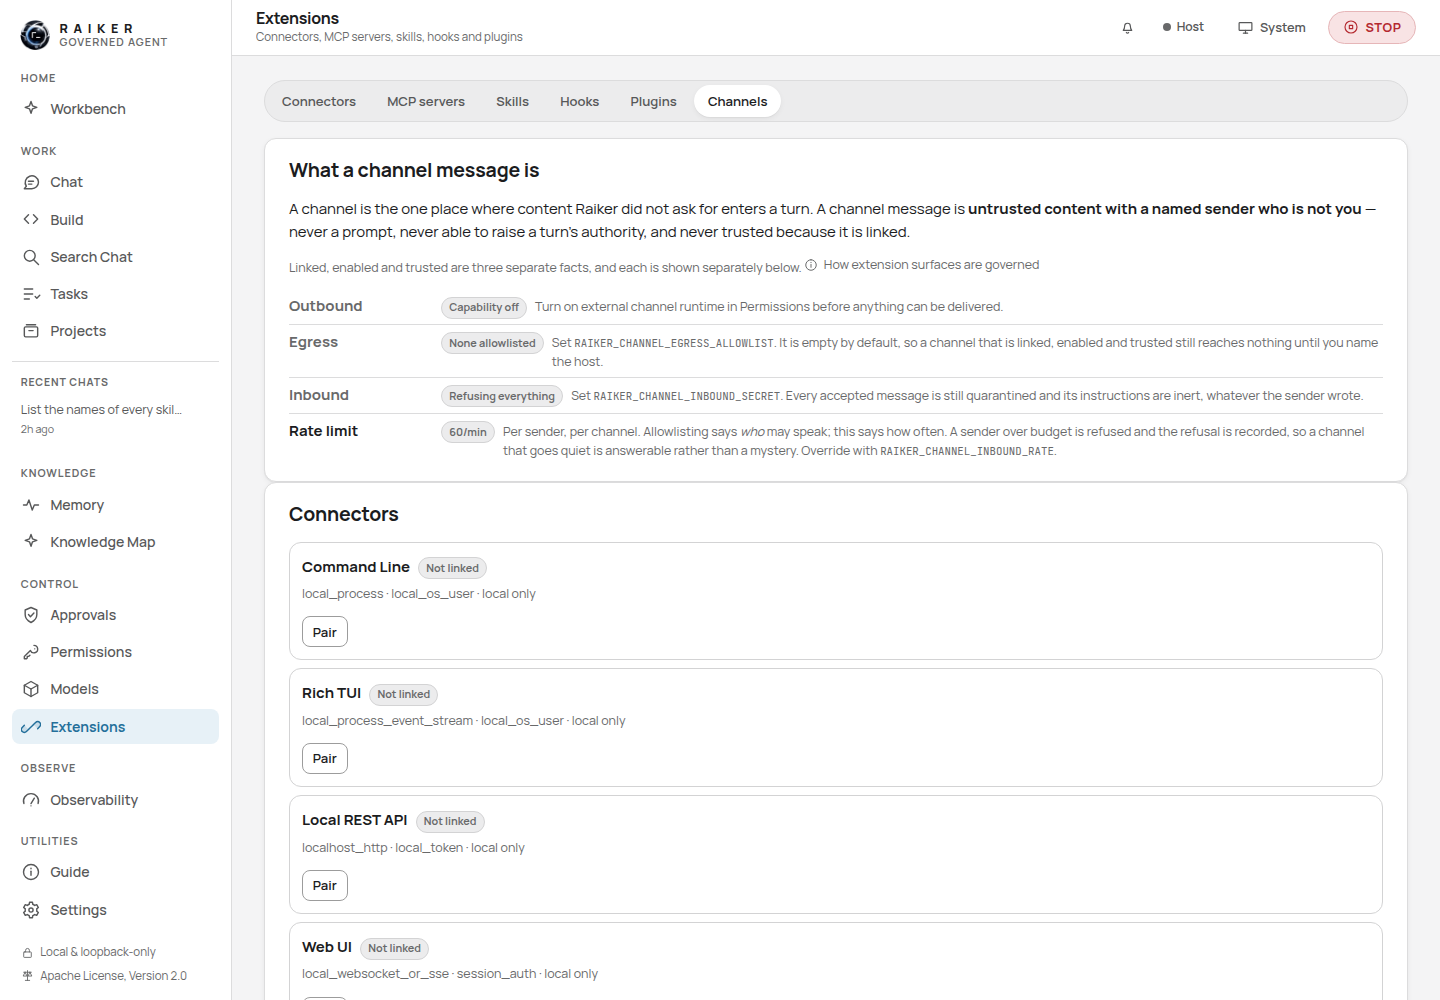
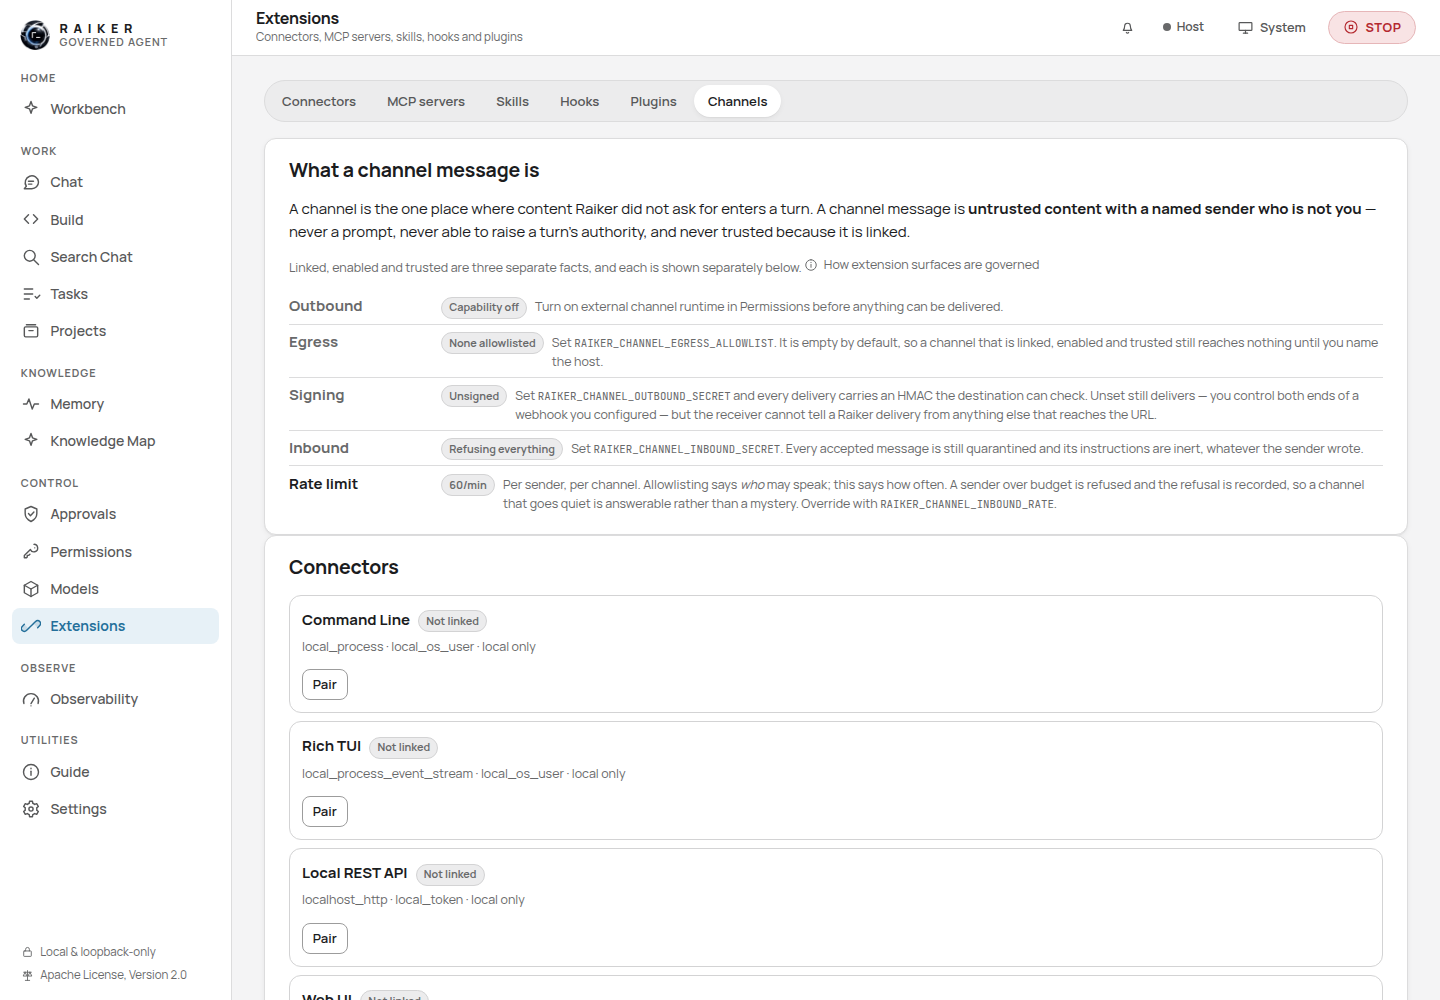
fix: sign the deliveries a "signed HTTP callback" was sending unsigned
The webhook connector profile declares transport `signed_http_callback` and
auth `signed_message_reference`. The executor POSTed a bare JSON body. A
receiver had no way to tell a Raiker delivery from anything else that could
reach the URL, so both fields were documentation rather than facts about the
bytes on the wire — the registry validated that they were present, never that
they were true.

Deliveries now carry X-Raiker-Signature (HMAC-SHA256 over the exact bytes,
keyed by RAIKER_CHANNEL_OUTBOUND_SECRET) and X-Raiker-Delivered-At. The body
is serialised with sorted keys and carries the timestamp too, so a receiver
can recompute the signature without knowing Raiker's serialisation and can
reject a replay on its own terms. The secret is read at delivery and never
stored, logged or returned.

Unset means unsigned, not refused: the owner controls both ends of a webhook
they configured, and hard-blocking their own destination is
prevention-by-restriction. So the state is reported instead — in the delivery
summary, in its artifacts, and as a Signing row on the tab beside the other
four conditions.

Claude-Session: https://claude.ai/code/session_01Hp8EpmNDdXLE3aU94XXCnu

diff --git a/apps/web/src/lib/views/ExtensionsView.svelte b/apps/web/src/lib/views/ExtensionsView.svelte
@@ -819,7 +819,9 @@
         prompt, never able to raise a turn's authority, and never trusted because it is linked.
       </p>
       <p class="note">
-        Linked, enabled and trusted are three separate facts, and each is shown separately below.
+        Nothing here is implicit. Linked is not enabled, enabled is not trusted, and a channel that
+        is all three still reaches nothing until you name the host — so every condition is its own
+        row, with its own remedy.
         <GuideLink route="extensions" label="How extension surfaces are governed" />
       </p>
       {#if channels !== null}
@@ -845,6 +847,18 @@
             <span class="note">
               Set <code>RAIKER_CHANNEL_EGRESS_ALLOWLIST</code>. It is empty by default, so a channel
               that is linked, enabled and trusted still reaches nothing until you name the host.
+            </span>
+          </li>
+          <li class:event-dead={!channels.outbound.signing_configured}>
+            <strong>Signing</strong>
+            <span class="hook-tag" class:hook-tag-dead={!channels.outbound.signing_configured}>
+              {channels.outbound.signing_configured ? "Signed" : "Unsigned"}
+            </span>
+            <span class="note">
+              Set <code>RAIKER_CHANNEL_OUTBOUND_SECRET</code> and every delivery carries an
+              HMAC the destination can check. Unset still delivers — you control both ends of a
+              webhook you configured — but the receiver cannot tell a Raiker delivery from
+              anything else that reaches the URL.
             </span>
           </li>
           <li class:event-dead={!channels.inbound.secret_configured}>

diff --git a/apps/web/src/lib/views/ExtensionsView.test.ts b/apps/web/src/lib/views/ExtensionsView.test.ts
@@ -380,6 +380,7 @@ describe("ExtensionsView", () => {
       runtime_enabled: false,
       egress_configured: false,
       egress_host_count: 0,
+      signing_configured: false,
     },
     inbound: {
       secret_configured: false,
@@ -416,6 +417,9 @@ describe("ExtensionsView", () => {
     // Allowlisting says *who* may speak; the budget says how often. An
     // allowlisted sender was unbounded until this row existed.
     expect(within(posture).getByText("Rate limit").closest("li")).toHaveTextContent("60/min");
+    // The webhook profile declares a *signed* callback. Whether a delivery is
+    // actually signed is a fact about the bytes, not about the profile.
+    expect(within(posture).getByText("Signing").closest("li")).toHaveTextContent("Unsigned");
   });
 
   it("offers pairing, and says pairing is not switching on", async () => {

diff --git a/apps/web/e2e/bug-225-channels-live.spec.ts b/apps/web/e2e/bug-225-channels-live.spec.ts
@@ -71,7 +71,7 @@ test("the tab states what a channel message is (BUG-225)", async ({ page }) => {
   // The three gates, each its own row: one is a capability the owner sets, one
   // is an environment allowlist, one is an inbound secret. Different remedies.
   const posture = page.getByTestId("channel-posture");
-  for (const fact of ["Outbound", "Egress", "Inbound", "Rate limit"]) {
+  for (const fact of ["Outbound", "Egress", "Signing", "Inbound", "Rate limit"]) {
     await expect(posture.getByText(fact, { exact: true })).toBeVisible();
   }
 

diff --git a/apps/web/src/lib/apiTypes.ts b/apps/web/src/lib/apiTypes.ts
@@ -400,6 +400,8 @@ export interface ChannelsView {
     /** RAIKER_CHANNEL_EGRESS_ALLOWLIST names at least one host. Fail-closed. */
     egress_configured?: boolean;
     egress_host_count?: number;
+    /** RAIKER_CHANNEL_OUTBOUND_SECRET is set, so deliveries carry an HMAC. */
+    signing_configured?: boolean;
   };
   inbound: {
     /** RAIKER_CHANNEL_INBOUND_SECRET is set. Without it the receiver refuses. */

diff --git a/raiker/runtime/executors/channels.py b/raiker/runtime/executors/channels.py
@@ -1,6 +1,9 @@
 from __future__ import annotations
 
+import hashlib
+import hmac
 import json
+import os
 from pathlib import Path
 from typing import TYPE_CHECKING
 
@@ -20,6 +23,31 @@ if TYPE_CHECKING:
 # an approval). Inbound traffic is handled separately and always labelled
 # untrusted (see raiker/api/routes_channels.py). This is the one reference
 # transport for Phase 4 slice 4; other transports remain gated/fail-closed.
+
+
+def _sign_delivery(body: bytes) -> tuple[str, bool]:
+    """``(signature, signed)`` for one outbound body.
+
+    The webhook connector profile declares transport ``signed_http_callback`` and
+    auth ``signed_message_reference``. Until this existed, the executor POSTed an
+    unsigned body — so a receiver had no way to tell a Raiker delivery from
+    anything else that could reach the URL, and the profile's declaration was
+    documentation rather than a fact.
+
+    HMAC-SHA256 over the exact bytes sent, keyed by ``RAIKER_CHANNEL_OUTBOUND_SECRET``.
+    The secret is read at delivery and never stored, logged or returned.
+
+    **Unset means unsigned, not refused**, and that is deliberate: the owner
+    controls both ends of a webhook they configured, and hard-blocking their own
+    destination is prevention-by-restriction. The delivery says so in its summary
+    and its artifacts, so an unsigned delivery is a visible state rather than a
+    silent one, and a receiver that requires a signature simply rejects it.
+    """
+    secret = os.environ.get("RAIKER_CHANNEL_OUTBOUND_SECRET", "").strip()
+    if not secret:
+        return "", False
+    digest = hmac.new(secret.encode("utf-8"), body, hashlib.sha256).hexdigest()
+    return f"sha256={digest}", True
 
 
 def _enabled_pairing(store: SQLiteStore, connector_id: str) -> dict | None:
@@ -55,9 +83,25 @@ class ExternalChannelExecutor:
                 reason_code="channel_not_paired_or_disabled",
                 summary="Channel delivery denied: connector is not paired/enabled.",
             )
-        body = json.dumps({"text": text, "connector_id": connector_id}).encode("utf-8")
+        delivered_at = utc_now()
+        body = json.dumps(
+            {
+                "text": text,
+                "connector_id": connector_id,
+                "delivered_at": delivered_at,
+            },
+            sort_keys=True,
+        ).encode("utf-8")
+        signature, signed = _sign_delivery(body)
+        headers = (
+            {"X-Raiker-Signature": signature, "X-Raiker-Delivered-At": delivered_at}
+            if signed
+            else {"X-Raiker-Delivered-At": delivered_at}
+        )
         try:
-            result = post_url(url, body, egress_allowlist=channel_egress_allowlist())
+            result = post_url(
+                url, body, egress_allowlist=channel_egress_allowlist(), headers=headers
+            )
         except SandboxError as exc:
             return ExecutionResult(
                 ok=False, capability=self.capability, action_id=action.action_id,
@@ -66,9 +110,18 @@ class ExternalChannelExecutor:
             )
         return ExecutionResult(
             ok=True, capability=self.capability, action_id=action.action_id,
-            summary=f"Delivered to '{connector_id}' ({result['sent_bytes']}b).",
-            # Metadata only — never the message text or the target URL.
-            artifacts={"connector_id": connector_id, "sent_bytes": result["sent_bytes"], "status": result["status"]},
+            summary=(
+                f"Delivered to '{connector_id}' ({result['sent_bytes']}b)"
+                + (", signed." if signed else ", UNSIGNED — set RAIKER_CHANNEL_OUTBOUND_SECRET.")
+            ),
+            # Metadata only — never the message text, the target URL, or the
+            # signature itself.
+            artifacts={
+                "connector_id": connector_id,
+                "sent_bytes": result["sent_bytes"],
+                "status": result["status"],
+                "signed": signed,
+            },
         )
 
 

diff --git a/tests/test_channel_owner_surface.py b/tests/test_channel_owner_surface.py
@@ -433,3 +433,63 @@ def test_the_surface_states_the_budget(workspace: Path, owner: str, monkeypatch:
     view = DashboardService(workspace).list_channels(owner)
 
     assert view["inbound"]["rate_limit_per_minute"] == 12
+
+
+# ── Outbound signing: the profile's declaration becomes a fact ───────────────
+
+
+def test_a_delivery_is_signed_when_the_owner_configured_a_secret(
+    workspace: Path, monkeypatch: pytest.MonkeyPatch
+) -> None:
+    """The webhook profile declares `signed_http_callback`. It POSTed unsigned.
+
+    A receiver had no way to tell a Raiker delivery from anything else that could
+    reach the URL, so the profile's transport was documentation rather than a
+    fact about the bytes on the wire.
+    """
+    import hashlib
+    import hmac
+    import json as _json
+
+    from raiker.runtime.executors import channels as channel_executors
+
+    monkeypatch.setenv("RAIKER_CHANNEL_OUTBOUND_SECRET", "shared-with-the-receiver")
+    body = _json.dumps({"text": "hi"}, sort_keys=True).encode("utf-8")
+
+    signature, signed = channel_executors._sign_delivery(body)
+
+    assert signed is True
+    expected = hmac.new(b"shared-with-the-receiver", body, hashlib.sha256).hexdigest()
+    # Over the exact bytes sent, so a receiver can recompute it without knowing
+    # how Raiker happened to serialise the payload.
+    assert signature == f"sha256={expected}"
+
+
+def test_no_secret_means_unsigned_rather_than_refused(
+    workspace: Path, monkeypatch: pytest.MonkeyPatch
+) -> None:
+    from raiker.runtime.executors import channels as channel_executors
+
+    monkeypatch.delenv("RAIKER_CHANNEL_OUTBOUND_SECRET", raising=False)
+
+    signature, signed = channel_executors._sign_delivery(b"{}")
+
+    # Deliberate: the owner controls both ends of a webhook they configured, and
+    # hard-blocking their own destination is prevention-by-restriction. The state
+    # is reported instead — visible, not silent.
+    assert signed is False
+    assert signature == ""
+
+
+def test_the_surface_says_whether_deliveries_are_signed(
+    workspace: Path, owner: str, monkeypatch: pytest.MonkeyPatch
+) -> None:
+    monkeypatch.delenv("RAIKER_CHANNEL_OUTBOUND_SECRET", raising=False)
+    assert DashboardService(workspace).list_channels(owner)["outbound"][
+        "signing_configured"
+    ] is False
+
+    monkeypatch.setenv("RAIKER_CHANNEL_OUTBOUND_SECRET", "k")
+    assert DashboardService(workspace).list_channels(owner)["outbound"][
+        "signing_configured"
+    ] is True

diff --git a/raiker/runtime/executors/sandbox.py b/raiker/runtime/executors/sandbox.py
@@ -243,13 +243,16 @@ def post_url(
     *,
     egress_allowlist: frozenset[str] | None = None,
     content_type: str = "application/json",
+    headers: dict[str, str] | None = None,
     max_bytes: int = 64_000,
     timeout: float = 10.0,
 ) -> dict:
     """POST ``payload`` to ``url`` only if its host matches ``egress_allowlist``.
 
     An empty/absent allowlist denies all egress (fail closed). Returns
-    response-size metadata only — never the response body.
+    response-size metadata only — never the response body. ``headers`` are sent
+    verbatim and never returned or logged, so a signature or an owner token can
+    be attached without either leaking into the result.
     """
     from urllib.parse import urlparse
     parsed = urlparse(url)
@@ -260,8 +263,9 @@ def post_url(
     if not any(fnmatch.fnmatch(parsed.netloc, pattern) for pattern in egress_allowlist):
         raise SandboxError(f"egress_denied:{parsed.netloc}")
     import urllib.request
+    merged = {"Content-Type": content_type, **(headers or {})}
     request = urllib.request.Request(  # noqa: S310 - scheme checked above
-        url, data=payload, method="POST", headers={"Content-Type": content_type},
+        url, data=payload, method="POST", headers=merged,
     )
     try:
         with urllib.request.urlopen(request, timeout=timeout) as resp:  # noqa: S310

diff --git a/raiker/control/dashboard.py b/raiker/control/dashboard.py
@@ -3354,6 +3354,14 @@ class DashboardService:
                 "runtime_enabled": bool(gate.runtime_enabled) if gate is not None else False,
                 "egress_configured": bool(allowlist),
                 "egress_host_count": len(allowlist),
+                # The webhook profile declares `signed_http_callback`. Without a
+                # secret the executor still delivers — the owner controls both
+                # ends of a webhook they configured — but the receiver cannot
+                # tell a Raiker delivery from anything else that reaches the URL,
+                # so the state is reported rather than assumed.
+                "signing_configured": bool(
+                    os.environ.get("RAIKER_CHANNEL_OUTBOUND_SECRET", "").strip()
+                ),
             },
             "inbound": {
                 "secret_configured": bool(

diff --git a/docs/plans/FIXED_ITEMS.md b/docs/plans/FIXED_ITEMS.md
@@ -10889,3 +10889,55 @@ slightly beyond: a 429 with no audit trail leaves the owner unable to distinguis
 **Evidence.** `tests/test_channel_owner_surface.py` — the fourth of four is
 refused, the refusal is recorded, one sender's budget is not another's, a
 nonsense override falls back, and the surface states the limit.
+
+---
+
+## FIXED-268 — A "signed HTTP callback" was posting an unsigned body
+
+**Severity: Medium. Area: channels / outbound integrity. Fixed 2026-08-22.**
+
+The webhook connector profile declares transport `signed_http_callback` and auth
+`signed_message_reference`. `ExternalChannelExecutor` POSTed a bare JSON body with
+no signature and no headers beyond `Content-Type`. A receiver had no way to tell a
+Raiker delivery from anything else that could reach the URL — so the profile's two
+most load-bearing fields were documentation, not facts about the bytes on the
+wire. `ConnectorRegistry` validates that both fields are *present*; nothing
+checked that either was *true*.
+
+**What ships.** Every delivery carries `X-Raiker-Signature: sha256=<hmac>` —
+HMAC-SHA256 over the exact bytes sent, keyed by `RAIKER_CHANNEL_OUTBOUND_SECRET`
+— alongside `X-Raiker-Delivered-At`. The body is serialised with sorted keys and
+the timestamp is inside it as well as on the header, so a receiver can recompute
+the signature without knowing how Raiker happened to order the payload, and can
+reject a replay on its own terms. The secret is read at delivery and never
+stored, logged, or returned; `post_url` sends headers verbatim and reports only
+size metadata, so neither the signature nor a token can leak through the result.
+
+**Unset means unsigned, not refused**, and that is a deliberate reading of this
+project's security posture: the owner controls both ends of a webhook they
+configured, and hard-blocking their own destination is prevention-by-restriction.
+So the state is *reported* instead — the delivery summary says `UNSIGNED — set
+RAIKER_CHANNEL_OUTBOUND_SECRET`, the artifacts carry `signed: false`, and the
+Channels tab has a **Signing** row beside the other conditions. A receiver that
+requires a signature simply rejects the delivery, which is the correct place for
+that decision to be made.
+
+**User-interface outcome.** Extensions → Channels now states five conditions, one
+row each, because each has a different remedy: the capability, the egress
+allowlist, signing, the inbound secret, and the inbound budget. The lead line
+says why: *nothing here is implicit — linked is not enabled, enabled is not
+trusted, and a channel that is all three still reaches nothing until you name the
+host.*
+
+**Reference-platform decision — is this a meaningful improvement?** **Yes,
+narrowly, and mostly it is honesty.** Signed webhooks are standard in the
+reference set — it is Raiker that was behind its own profile. What is worth
+keeping is the *reporting*: no cited platform tells the owner, on the page, that
+its outbound deliveries are currently unsigned. The gap between what a connector
+profile declares and what the transport does is exactly the kind of thing a
+governed product should surface rather than assume.
+
+**Evidence.** `tests/test_channel_owner_surface.py` — the signature is HMAC-SHA256
+over the exact bytes, no secret means unsigned rather than refused, and the
+surface reports which. `apps/web/e2e/bug-225-channels-live.spec.ts` asserts the
+Signing row is present at every width.

diff --git a/docs/CHANNELS_SPEC.md b/docs/CHANNELS_SPEC.md
@@ -226,7 +226,7 @@ each step is refused until the one before it is done:
 | Step | What | State |
 |---|---|---|
 | 1 | **This section**, in the spec and the threat model | **Done.** Nothing below has a contract to satisfy without it. |
-| 2 | **Outbound delivery** — connector profile, capability gate, egress allowlist, audit event | **Done.** `ExternalChannelExecutor` under `external_channel_runtime`. |
+| 2 | **Outbound delivery** — connector profile, capability gate, egress allowlist, audit event | **Done.** `ExternalChannelExecutor` under `external_channel_runtime`. Deliveries carry `X-Raiker-Signature` (HMAC-SHA256 over the exact bytes, keyed by `RAIKER_CHANNEL_OUTBOUND_SECRET`) so `signed_http_callback` describes the wire and not just the profile. Unset means **unsigned, not refused** — the owner controls both ends of a webhook they configured — and the state is reported on the tab and in the delivery artifacts. |
 | 3 | **Inbound, paired and allowlisted** | **Done.** The receiver enforces `requires_pairing` and `requires_sender_allowlist`, and marks every accepted message untrusted, quarantined and instructions-inert. |
 | 4 | **An owner surface for all of it** | **Done (FIXED-265).** Steps 2 and 3 were built and had no way in: with no pairing the executors refuse and the receiver 404s, so the transport was unreachable and the tab reported that channels did not exist. |
 | 5 | **Rate limits** — a per-sender inbound budget | **Done.** Fixed window per `(connector, sender)`, default 60/min, `RAIKER_CHANNEL_INBOUND_RATE` overrides; a refusal is a recorded `channel_message_rejected` event with `reason: rate_limited`. Allowlisting says *who*, this says *how often*. |

diff --git a/README.md b/README.md
@@ -386,8 +386,9 @@ Raiker's documentation does not run ahead of its code. As of 2026-08-22:
   allowlist; inbound is recorded, quarantined and its instructions inert. All of
   it existed and was unreachable until the tab gained pairing, so *linked*,
   *enabled*, *trusted* and *reachable* are now four facts shown as four things.
-  Three of them are fail-closed by default and the tab names each one and its
-  remedy, alongside the inbound budget — 60 messages per sender per minute, since
+  Each condition is its own row with its own remedy — the capability, the egress
+  allowlist, whether deliveries are signed, the inbound secret, and the inbound
+  budget — 60 messages per sender per minute, since
   allowlisting says *who* may speak and not how often. The spec's routing modes
   and resolving an approval over a channel are not built: an inbound message
   never becomes work on its own.

diff --git a/docs/guide/extensions-and-mcp.md b/docs/guide/extensions-and-mcp.md
@@ -390,6 +390,7 @@ reports them one by one rather than as a single "ready":
 |---|---|---|
 | Capability | `external_channel_runtime` | Permissions |
 | Egress | `RAIKER_CHANNEL_EGRESS_ALLOWLIST` — empty means deny | Your environment |
+| Signing | `RAIKER_CHANNEL_OUTBOUND_SECRET` — unset means unsigned, not refused | Your environment |
 | Inbound secret | `RAIKER_CHANNEL_INBOUND_SECRET` — unset means refuse | Your environment |
 
 A fourth row states the **inbound budget**: 60 messages per sender per minute by
